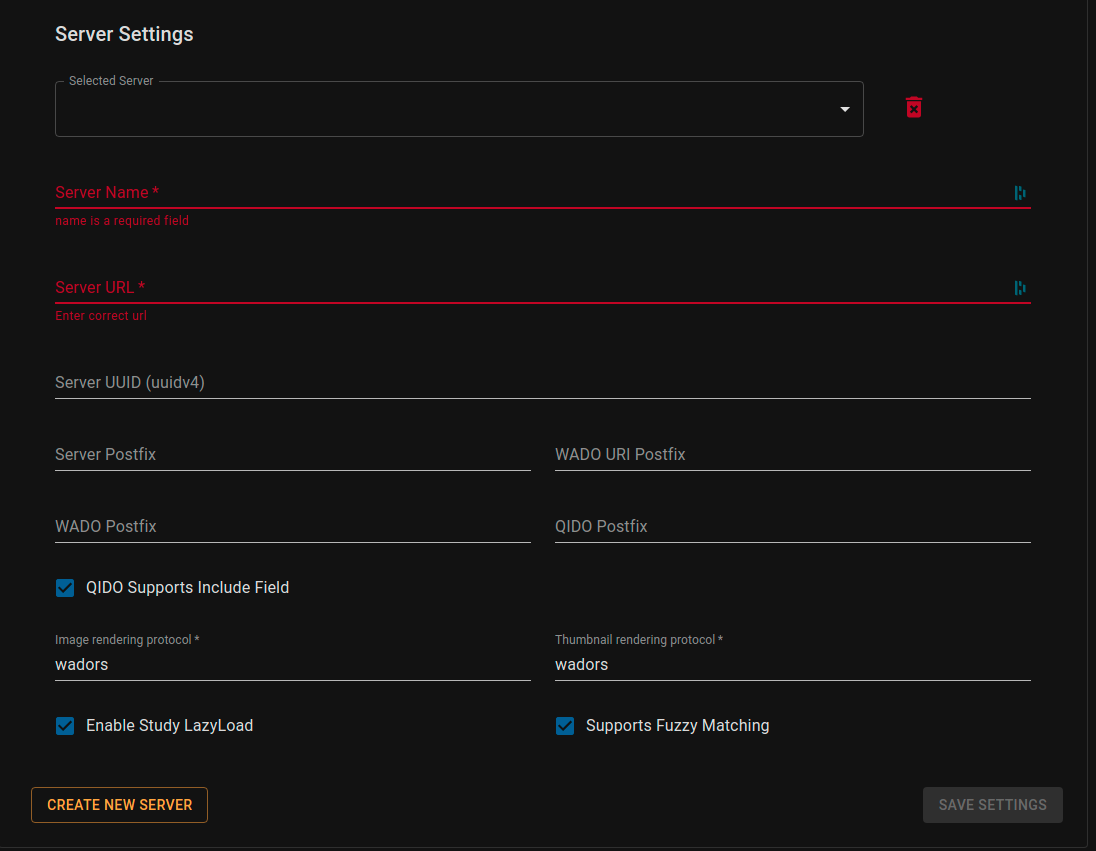
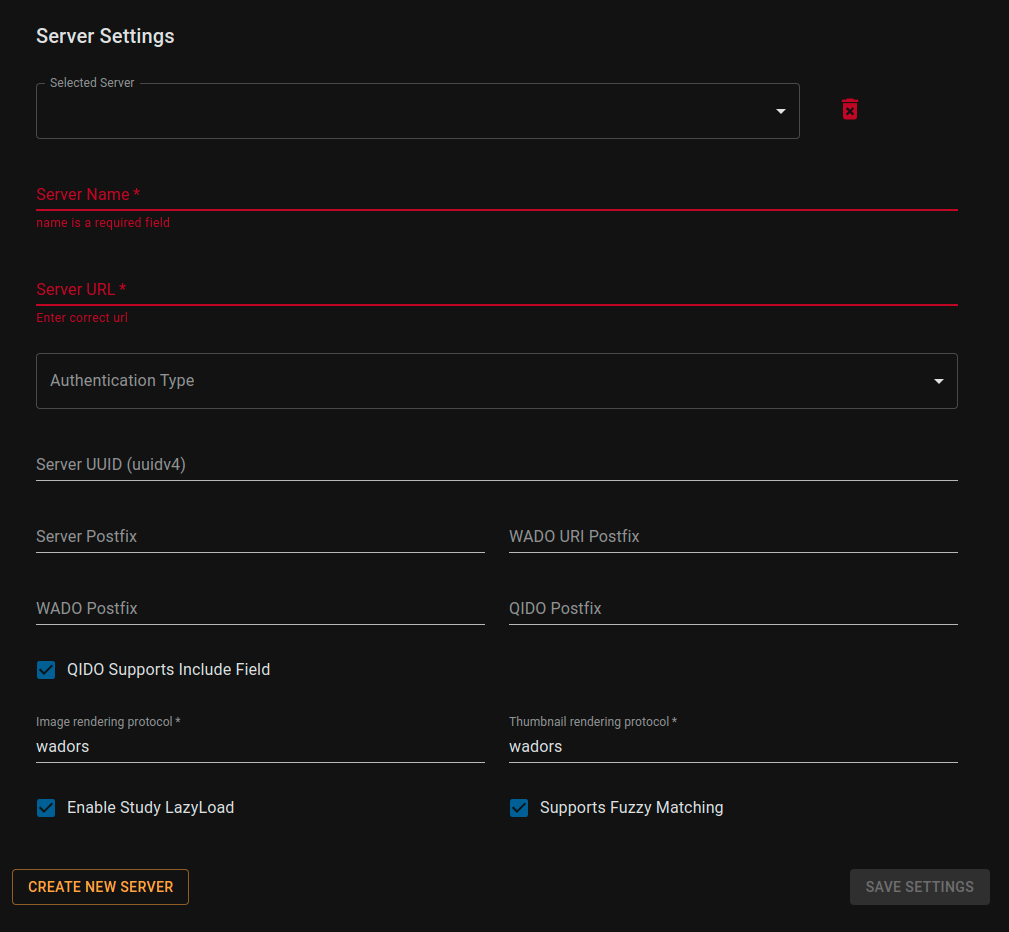
Basic auth instruction for server and application

diff --git a/content/pages/local-pacs/local-pacs.md b/content/pages/local-pacs/local-pacs.md
@@ -29,17 +29,19 @@ Before we start please make sure your server has access to:
 ## Get the server code
 
 You can either clone this repo
+
 ```shell
 git clone https://github.com/zhiva-ai/pacs-server.git
 ```
+
 or download it directly from
 [zhiva.ai PACS server](https://github.com/zhiva-ai/pacs-server/archive/refs/heads/main.zip).
 
 ## Generate local TSL certificate
+
 (only once every 365 days)
 
 > If you already have the `.crt` and `.key` files do not generate them again. Go straight to <a href="#build-the-server">Build the server section</a> and run your server with existing certificate.
-
 
 Before we starty storing data on the server we have to secure the connection between the server and the viewer. We're going to use [Transport Layer Security (TSL)](https://en.wikipedia.org/wiki/Transport_Layer_Security). First, we have to generate certificate (`.crt`) and key (`.key`) files. Because we're doing it from the local server we're going to use [OpenSSL](https://www.openssl.org/) (we don't need external party to sign certificate, if you want to use it on the external server you should sign with something like [Let's Encrypt](https://letsencrypt.org/)).
 
@@ -55,6 +57,7 @@ openssl req -x509 \
 ```
 
 Change `-subj` to describe your organization:
+
 - `C` - country code (2 letter code)
 - `L` - location (city name)
 - `O` - organization name
@@ -74,7 +77,7 @@ At this point you should have 2 `.crt` files and 1 `.key` file. Check this by ca
  ls *.{crt,key}
 ```
 
-from your main directory. It should return following result `trusted.crt  zhiva.crt  zhiva.key`.
+from your main directory. It should return following result `trusted.crt zhiva.crt zhiva.key`.
 
 If one of those files is missing go back to [Generate local TSL certificate](#generate-local-tsl-certificate-only-once-every-365-days) section and make sure you have all of them.
 
@@ -93,11 +96,13 @@ After starting the server you should be able to access [localhost/zhiva/app/expl
 If you have more than one computer inside your network (or VPN connection), then you can share the server settings with them. To check the server address please run the following command:
 
 Linux or Mac:
+
 ```shell
 ifconfig
 ```
 
 Windows
+
 ```shell
 ipconfig
 ```
@@ -125,15 +130,47 @@ Detailed instruction is described in [Managing servers inside the DICOM viewer](
 - _"Why my server doesn't accept very large DICOM files?"_
 
 There is an maximum file size setting inside server config. If you want to change that please go to `./nginx.conf` and modify:
+
 ```nginx configuration
 client_max_body_size 2000m;
 ```
+
+## Authentication
+
+### Basic Auth
+
+To secure your local server you can use Basic Auth function that is built-in into Orthanc. To enable authentication simply change the value of `AuthenticationEnabled` to `true` inside `orthanc.json` configuration file.
+
+With that change you can provide your username and password inside `RegisteredUsers` property:
+
+```javascript
+"RegisteredUsers": {
+  "zhiva": "35&Q39Nj&i@Eyk6P"
+},
+```
+
+You can create as many users as you need.
+
+To still being able to use DicomWeb with Orthanc you then have to provide that password in `DicomWeb` property inside `orthanc.json` file.
+
+```javascript
+"DicomWeb": {
+    [...]
+    "Servers" : {
+      "zhiva" : [ "http://localhost:8042/pacs/", "zhiva", "35&Q39Nj&i@Eyk6P" ]
+    },
+    [...]
+},
+```
+
+Remember to enter created credentials into the application settings. To see how please read [Authentication](latest/managing-servers-inside-the-dicom-viewer#authentication) section.
 
 ## Customization
 
 ### URL
 
 You're able to change server url by modifying two settings:
+
 - `orthanc.json` - inner server settings
 - `nginx.conf` - main server settings
 
@@ -178,4 +215,4 @@ and access your server at `https://localhost/serv/...`
 
 ### Storage
 
-Currently, all the data are stored in [Docker's persistent volume](https://docs.docker.com/storage/volumes/). This is volume created by Docker itself. If you want to specify the path please follow the instruction from the [Docker Docs](https://docs.docker.com/compose/compose-file/compose-file-v3/#short-syntax-3) about setting up directories as volumes. 
+Currently, all the data are stored in [Docker's persistent volume](https://docs.docker.com/storage/volumes/). This is volume created by Docker itself. If you want to specify the path please follow the instruction from the [Docker Docs](https://docs.docker.com/compose/compose-file/compose-file-v3/#short-syntax-3) about setting up directories as volumes.

diff --git a/content/pages/adding-new-server-to-app/managing-servers-in-viewer.md b/content/pages/adding-new-server-to-app/managing-servers-in-viewer.md
@@ -34,8 +34,9 @@ As you can see, this server is not on the list and is not a valid server yet. Yo
 ### List of fields:
 - __Server Name__ - Just a display name, visible on the list of servers
 - __Server URL__ - Valid URL to the DICOM server. This path should be compatible with DICOMWeb standard and has to start with `https://`. If you're using our local server then it will look like `https://localhost/zhiva/pacs` or `https://192.168.1.2/zhiva/pacs` if the server is not on your local machine.
-- __Server Postfix__ - Any string that is part of the server url. Usually empty but some of the servers have additional postfix like `https://server.mydomain.com/pacs/DCM4CHEE` where `DCM4CHEE` is a `postfix`.
+- __Authentication Type__ - Authentication type used by the server.
 - __Server UUID__ - UUIDV4 of the server. If the server is used for inference it should have one. This UUID is sent along with the inference request to the model (see [`server` property](latest/setting-up-model-proxy#requesting-inference-for-given-model)).
+- __Server Postfix__ - Any string that is part of the server url. Usually empty but some of the servers have additional postfix like `https://server.mydomain.com/pacs/DCM4CHEE` where `DCM4CHEE` is a `postfix`.
 - __WADO URI Postfix__ - Another postfix in case the `WADO` (_Web Access DIICOM Objects_) protocol requires it. Usually `wado`.
 - __WADO Postfix__ - If there is additional postfix after `WADO URI` then put it here. Often the value `rs` (_Request/Response_) is used but some servers doesn't have that requirement.
 - __QIDO Postfix__ - Postfix for QIDO (_Query based on ID for DICOM Objects_) protocol. Works the same as other postfixes. Often `rs` but some servers leave it empty.
@@ -50,3 +51,13 @@ As you can see, this server is not on the list and is not a valid server yet. Yo
 We've created predefined server settings for [Our Local Server](/latest/setting-up-local-pacs). It is available under `Local Server` option. You might want to modify the `Server URL` to accommodate your local network settings. If you running the server on your local machine then leave `localhost` as hostname. If the server is somewhere in your network then change `localhost` to servers' IP address (sth. like `192.168.x.x`).
 
 If you've changed other settings that affect the URL change them as well in the setting.
+
+## Authentication
+
+### Basic Auth
+
+If your server is not available publicly and requires a login and password you can provide that information by selecting __Authentication Type__.
+
+![Server auth](./authentication.png)
+
+Selecting `Basic Auth` value allows you to enter credential that will be then used by the application to connect to PACS server. If you're using [our Local Server](/latest/setting-up-local-pacs) you can read more about securing your server in the [Authentication](/latest/setting-up-local-pacs#authentication) section.
